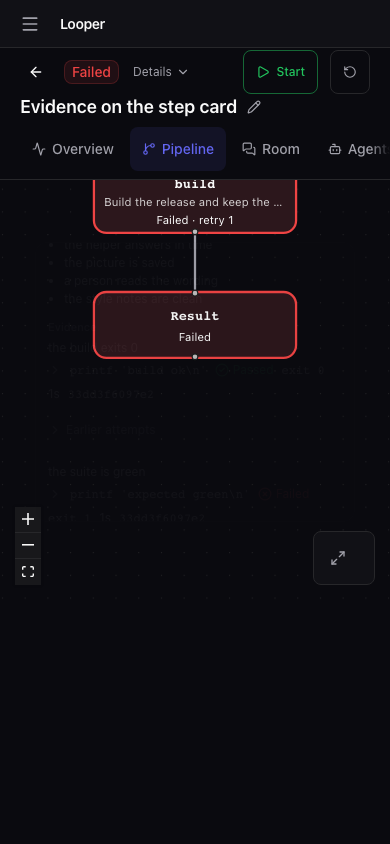
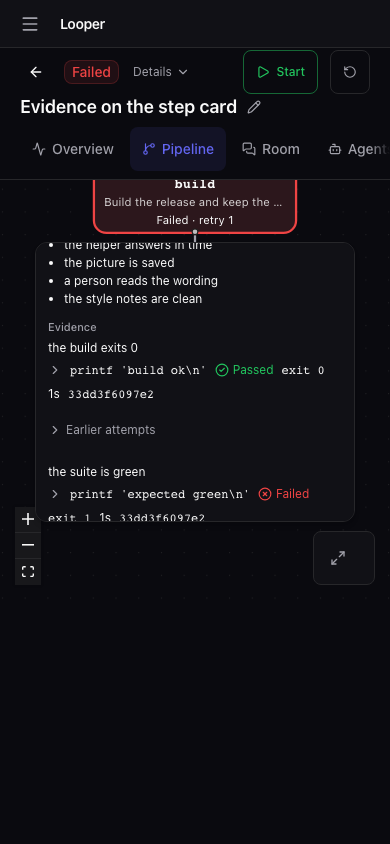
Keep shown evidence while a refresh is in flight
A 401 on an evidence image says the operator session is required, as a
403 already did. The next read keeps the evidence on screen, so an
expanded output stays expanded. The 390 collapsed and expanded shots
and the 768 shot were taken after the card fade.

diff --git a/web/src/components/evidence-section.test.tsx b/web/src/components/evidence-section.test.tsx
@@ -281,4 +281,91 @@ describe("a missing image", () => {
     await act(async () => { root.unmount(); });
     host.remove();
   });
+
+  it("says the session is required when the image answers 401", async () => {
+    vi.stubGlobal("fetch", vi.fn().mockResolvedValue({ status: 401 }));
+    const { host, root, image } = await showImage();
+    await act(async () => { image.dispatchEvent(new Event("error")); });
+    expect(host.textContent).toContain("operator session required");
+    expect(host.textContent).not.toContain("file missing");
+    expect(host.querySelector("img")).toBeNull();
+    await act(async () => { root.unmount(); });
+    host.remove();
+  });
+});
+
+describe("evidence stays while it is read again", () => {
+  let root: Root;
+  let host: HTMLElement;
+
+  beforeEach(() => {
+    vi.mocked(callV1).mockReset();
+    host = document.createElement("div");
+    document.body.appendChild(host);
+    root = createRoot(host);
+  });
+
+  afterEach(async () => {
+    await act(async () => { root.unmount(); });
+    host.remove();
+  });
+
+  function pending<T>() {
+    let resolve: (value: T) => void = () => {};
+    const promise = new Promise<T>((done) => { resolve = done; });
+    return { promise, resolve };
+  }
+
+  function Board({ status, steps }: { status: string; steps: TaskStep[] }) {
+    const load = useStepEvidence("t1", stepsNeedEvidence(steps), status, steps);
+    const step = steps[0];
+    const card = stepCard(step, {
+      taskId: "t1", active: false, look: LOOK, lookOf: () => LOOK, stepsById: new Map([[step.id, step]]), evidence: load,
+    });
+    return <NodeCardView card={card} />;
+  }
+
+  it("keeps the previous evidence and an expanded output while the next read is in flight", async () => {
+    const step = taskStep({
+      status: "running",
+      acceptance_criteria: ["the picture is saved"],
+      checks: [check("c-shot", 1, "python3 -B write_shot.py")],
+    });
+    const payload = (tail: string): TaskEvidence => ({
+      task_id: "t1",
+      steps: [{
+        step_id: step.id, step: "build", checks: [],
+        runs: [evidenceRun({ check_id: "c-shot", state: "passed", output_tail: tail })],
+      }],
+    });
+    const first = pending<TaskEvidence>();
+    vi.mocked(callV1).mockReturnValueOnce(first.promise);
+    await act(async () => { root.render(<Board status="running" steps={[step]} />); });
+    expect(host.textContent).toContain("Loading evidence…");
+    await act(async () => { first.resolve(payload("kept-tail")); await first.promise; });
+    expect(host.textContent).toContain("kept-tail");
+    expect(host.textContent).not.toContain("Loading evidence…");
+
+    const output = [...host.querySelectorAll("summary")].find((item) => item.textContent?.includes("Output"));
+    expect(output).toBeTruthy();
+    await act(async () => { output!.click(); });
+    expect((output!.closest("details") as HTMLDetailsElement).open).toBe(true);
+
+    const next = pending<TaskEvidence>();
+    vi.mocked(callV1).mockReturnValueOnce(next.promise);
+    await act(async () => {
+      root.render(<Board status="failed" steps={[{ ...step, status: "failed" }]} />);
+    });
+    expect(callV1).toHaveBeenCalledTimes(2);
+    expect(host.textContent).toContain("kept-tail");
+    expect(host.textContent).not.toContain("Loading evidence…");
+    const still = [...host.querySelectorAll("summary")].find((item) => item.textContent?.includes("Output"));
+    expect((still?.closest("details") as HTMLDetailsElement | undefined)?.open).toBe(true);
+
+    await act(async () => { next.resolve(payload("next-tail")); await next.promise; });
+    expect(host.textContent).toContain("next-tail");
+    expect(host.textContent).not.toContain("kept-tail");
+    const after = [...host.querySelectorAll("summary")].find((item) => item.textContent?.includes("Output"));
+    expect((after?.closest("details") as HTMLDetailsElement | undefined)?.open).toBe(true);
+  });
 });

diff --git a/web/src/lib/evidence.ts b/web/src/lib/evidence.ts
@@ -221,7 +221,11 @@ export function useStepEvidence(
     }
     const controller = new AbortController();
     let cancelled = false;
-    setLoad({ status: "loading" });
+    // A later read keeps the evidence already on screen. Replacing it with loading
+    // would flash the section and close an output the operator had opened.
+    setLoad((current) => (
+      current.status === "ready" && current.data.task_id === taskId ? current : { status: "loading" }
+    ));
     fetchTaskEvidence(taskId, controller.signal).then(
       (data) => { if (!cancelled) setLoad({ status: "ready", data }); },
       (error: unknown) => {

diff --git a/web/src/components/pipeline-node-card.tsx b/web/src/components/pipeline-node-card.tsx
@@ -98,7 +98,7 @@ function ArtifactThumb({ artifact }: { artifact: EvidenceArtifactView }) {
         className="max-h-24 max-w-full rounded border border-border"
         onError={() => {
           void fetch(artifact.href).then(
-            (response) => setProblem(response.status === 403 ? "operator session required" : "file missing"),
+            (response) => setProblem(response.status === 401 || response.status === 403 ? "operator session required" : "file missing"),
             () => setProblem("file missing"),
           );
         }}
